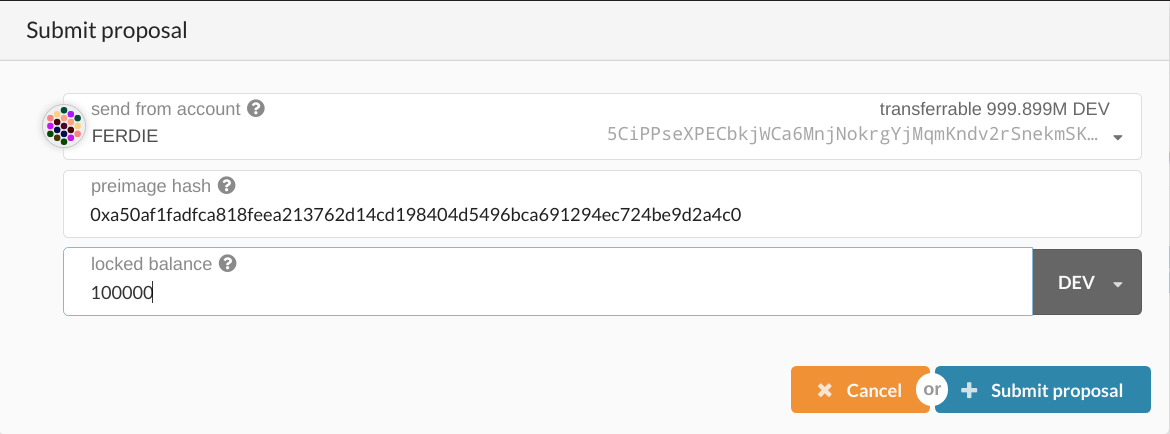
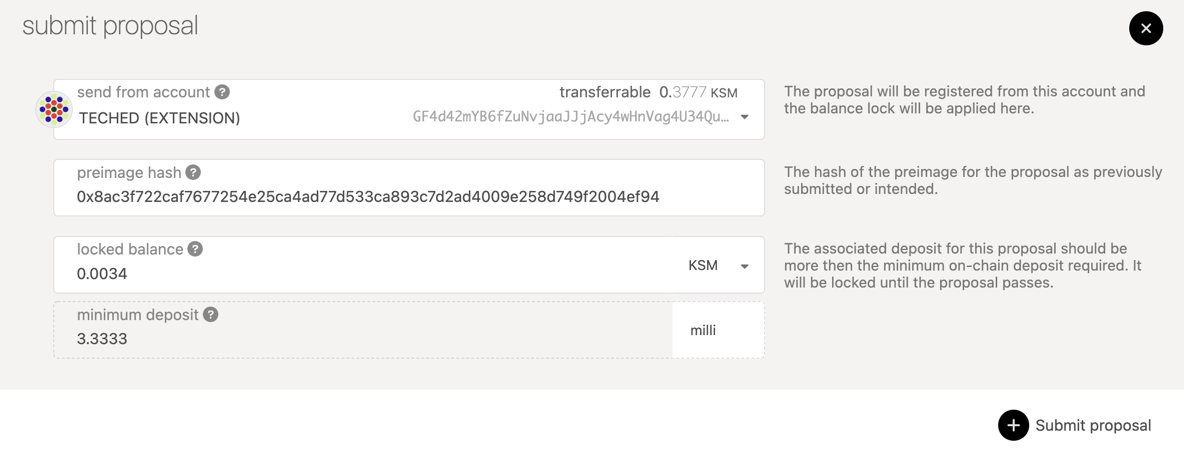
Democracy doc update (#3257)
* Add latest images for Democracy

* text and image updates

* text updates

* Update docs/maintain/maintain-guides-democracy.md

* Update docs/maintain/maintain-guides-democracy.md

diff --git a/docs/maintain/maintain-guides-democracy.md b/docs/maintain/maintain-guides-democracy.md
@@ -74,14 +74,14 @@ a proposal will be returned to that account in any given timeframe.
 
 :::
 
-On Polkadot Apps you can use the "Democracy" tab to make a new proposal. In order to submit a
+On Polkadot Apps you can navigate to the Governance -> Democracy tab to make a new proposal. In order to submit a
 proposal, you will need to submit what's called the preimage hash. The preimage hash is simply the
 hash of the proposal to be enacted. The easiest way to get the preimage hash is by clicking on the
 "Submit preimage" button and configuring the action that you are proposing.
 
-For example, if you wanted to propose that the account "Dave" would have a balance of 10 tokens your
-proposal may look something like the below image. The preimage hash would be
[1 lines of base64/hex data omitted]
+The example below demonstrates the creation of a proposal on Kusama (**the same procedure applies to Polkadot**). 
+If you wanted to propose that a remark "Expect Chaos!" is added, the preimage hash would be
[1 lines of base64/hex data omitted]
 hash and save it for the next step. There is no need to click Submit Preimage at this point, though
 you could. We'll go over that in the next section.
 
@@ -100,7 +100,7 @@ action. Other holders will not be able to make a judgement for whether they endo
 someone submits the actual preimage for this proposal. In the next step you will submit the
 preimage.
 
-![proposals](../assets/democracy/proposals.png)
+![proposal hash](../assets/democracy/proposal-hash.png)
 
 ## Submitting a Preimage
 
@@ -122,7 +122,7 @@ through and click "Submit preimage" and confirm the transaction.
 Once the transaction is included you should see the UI update with the information for your already
 submitted proposal.
 
-![proposals updated](../assets/democracy/proposals_updated.png)
+![proposals](../assets/democracy/proposals.png)
 
 ## Endorsing a Proposal
 
@@ -146,16 +146,16 @@ restrictions are made on the number of times a single account can endorse a prop
 
 To endorse a proposal, navigate to the proposal you want to endorse and click on the "Endorse" button.
 
-![endorsement button](../assets/democracy/second_button.png)
+![endorsement button](../assets/democracy/endorse1.png)
 
 You will be prompted with the full details of the proposal (if the preimage has been submitted!) and
 can then broadcast the transaction by clicking the blue "Endorse" button.
 
-![endorsement confirmed](../assets/democracy/second_confirm.png)
+![endorsement confirmed](../assets/democracy/endorse.png)
 
 Once successful, you will see your endorsement appear in the dropdown in the proposal details.
 
-![endorsement result](../assets/democracy/second_result.png)
+![endorsement result](../assets/democracy/endorsed-list.png)
 
 ## Voting on a Proposal
 
